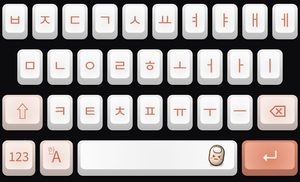
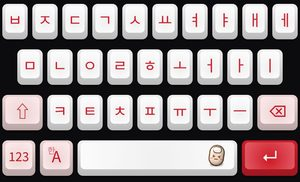
2026.11.12-7 블랙 & 화이트 레드
Claude-Session: https://claude.ai/code/session_01GvSCgEXELCVfxACkb9NKF6

diff --git a/Shared/KBTheme.swift b/Shared/KBTheme.swift
@@ -67,11 +67,11 @@ struct KBTheme {
                 pressKey: c(60, 55, 57), pressSpecial: c(46, 42, 44),
                 text: c(246, 172, 142), specialText: c(246, 172, 142),
                 depth: 4, radius: 10, short: "로즈 골드"),
-        KBTheme(id: "rosegold", name: "블랙 & 화이트 로즈",
-                bg: c(12, 11, 13), key: .white, special: c(252, 234, 226),
-                pressKey: c(240, 234, 232), pressSpecial: c(240, 214, 202),
-                text: c(214, 120, 94), specialText: c(206, 110, 86),
-                accent: c(236, 146, 116), depth: 4, radius: 10, short: "화이트 로즈"),
+        KBTheme(id: "rosegold", name: "블랙 & 화이트 레드",
+                bg: c(12, 11, 13), key: .white, special: c(252, 226, 226),
+                pressKey: c(240, 234, 234), pressSpecial: c(240, 206, 206),
+                text: c(214, 26, 42), specialText: c(204, 22, 38),
+                accent: c(220, 30, 44), depth: 4, radius: 10, short: "화이트 레드"),
         KBTheme(id: "rt_mono", name: "블랙",
                 bg: c(30, 30, 34), key: c(70, 70, 76), special: c(50, 50, 55),
                 pressKey: c(92, 92, 98), pressSpecial: c(70, 70, 76),

diff --git a/App/FingerErrorApp.swift b/App/FingerErrorApp.swift
@@ -96,7 +96,7 @@ struct ContentView: View {
                 }
             }
             .safeAreaInset(edge: .bottom) {
-                Text("버전 2026.11.12-6 (화이트 로즈 · 빛나는 로즈 골드) · 100개마다 리포트 · 한/A 영어 · 테마별 팻핑이 · 기념일").font(.caption2).foregroundStyle(.secondary).padding(4)
+                Text("버전 2026.11.12-7 (블랙 & 화이트 레드) · 100개마다 리포트 · 한/A 영어 · 테마별 팻핑이 · 기념일").font(.caption2).foregroundStyle(.secondary).padding(4)
             }
             .navigationTitle("핑거에러")
             // 3D 젤리: 크림 배경 + 복숭아 포인트
